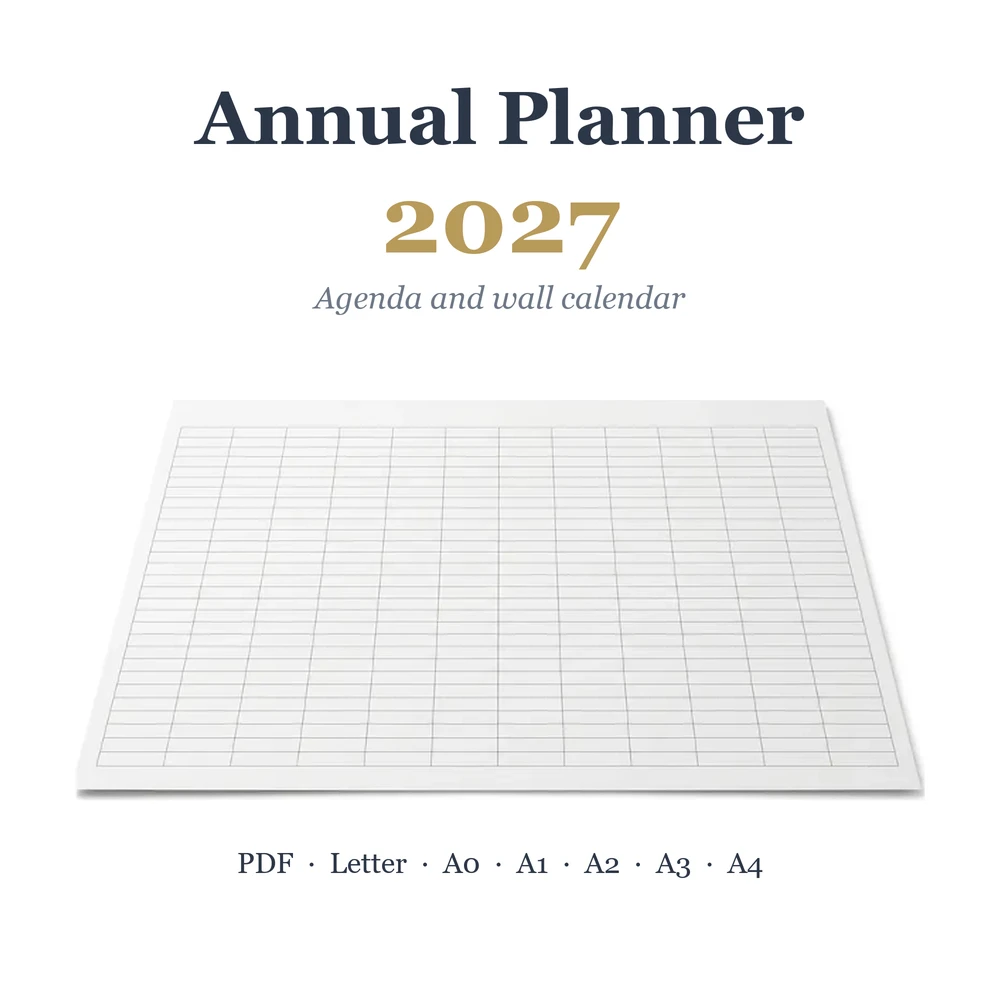
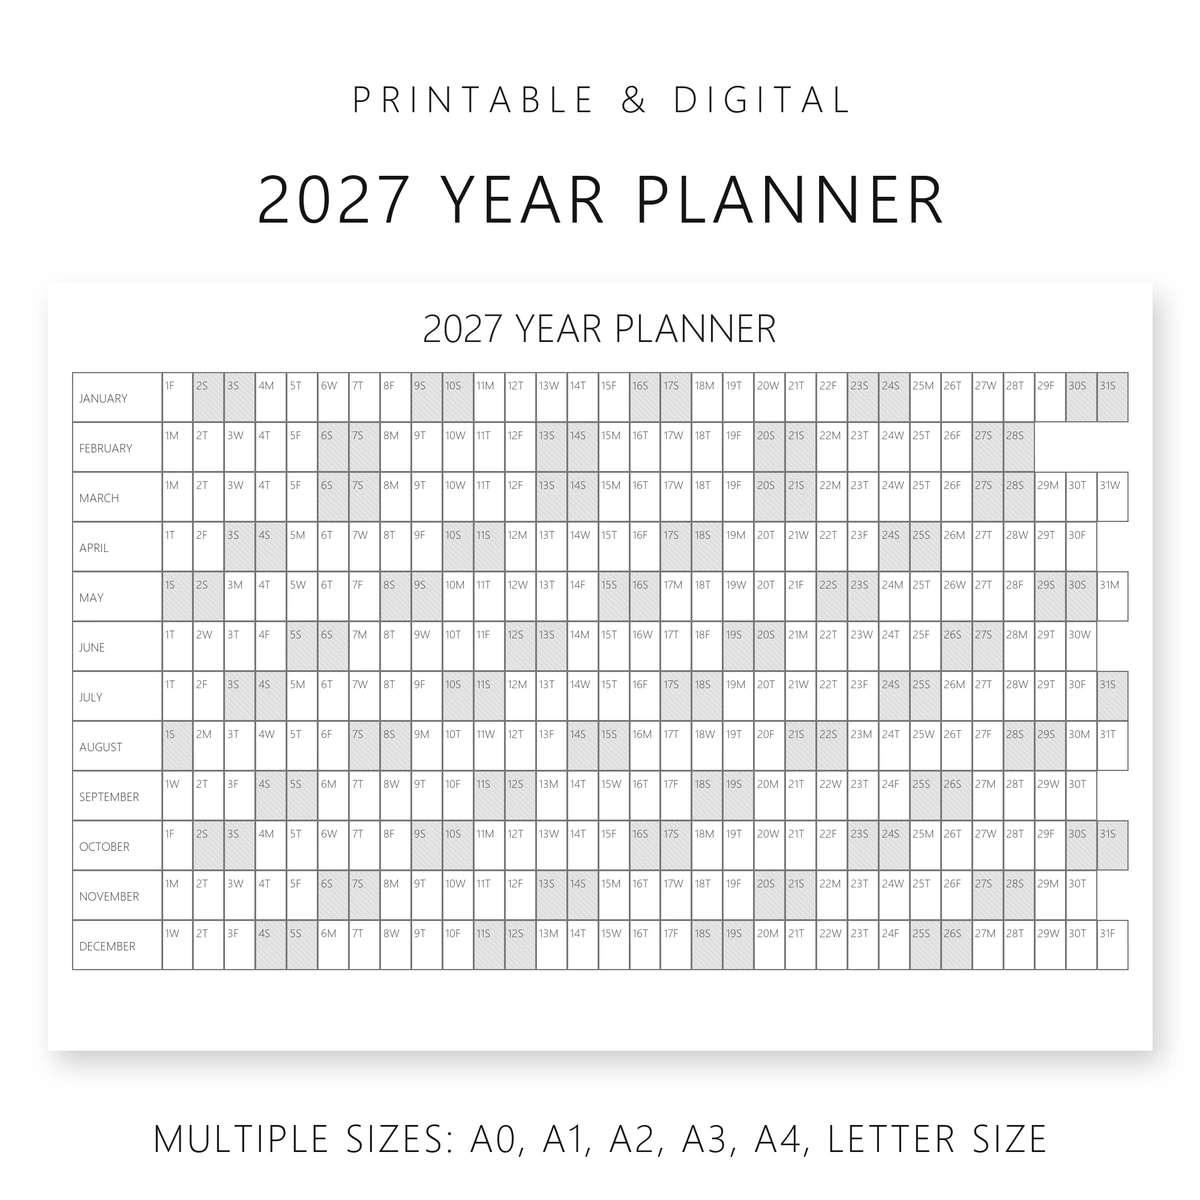
Foto planner-annuale-2027-stampabile: originale Etsy, sfondo bianco e testi tradotti IT/EN

diff --git a/automation/foto_digitale.py b/automation/foto_digitale.py
@@ -1,0 +1,101 @@
+# -*- coding: utf-8 -*-
+"""
+Foto prodotti DIGITALI fedeli all'annuncio: foto originale Etsy -> Gemini (sfondo bianco + traduzione dei testi, stesso prodotto) -> IT + EN.
+Uso: python automation/foto_digitale.py <id> [--solo it|en] [--no-push]
+Serve: automation/base/<id>-orig.jpg (foto originale dell'annuncio) e una voce in PRODOTTI qui sotto.
+Regola: il prodotto mostrato NON si ridisegna (stessa griglia, mesi, date, colonne): Gemini cambia solo sfondo e lingua dei testi.
+Altro prodotto = aggiungere una voce in PRODOTTI (cosa e' il prodotto + testi da tradurre). Altra lingua = voce in LINGUE.
+"""
+import json, os, subprocess, sys
+sys.path.insert(0, r'C:\Users\mirco\Desktop\libreria_comune')
+from comune import gemini_foto as G
+from PIL import Image, ImageChops
+
+R = os.path.dirname(os.path.dirname(os.path.abspath(__file__)))
+LINGUE = {'it': ('Italian', ''), 'en': ('English', '-en')}
+PRODOTTI = {
+ 'planner-annuale-2027-stampabile': dict(
+  cosa='a printable 2027 year planner / wall calendar sheet (12 month rows x 31 day columns, each cell with day number and weekday initial, weekend cells shaded)',
+  it='Translate every text into Italian exactly like this: "PRINTABLE & DIGITAL" -> "STAMPABILE E DIGITALE"; "2027 YEAR PLANNER" (both the headline and the title on the sheet) -> "PLANNER ANNUALE 2027"; '
+     'month names JANUARY..DECEMBER -> GENNAIO, FEBBRAIO, MARZO, APRILE, MAGGIO, GIUGNO, LUGLIO, AGOSTO, SETTEMBRE, OTTOBRE, NOVEMBRE, DICEMBRE; '
+     'weekday initials (M T W T F S S) -> Italian initials (L M M G V S D) keeping each day number on the SAME weekday as in the original; '
+     '"MULTIPLE SIZES: A0, A1, A2, A3, A4, LETTER SIZE" -> "PIU FORMATI: A0, A1, A2, A3, A4, LETTER".',
+  en='Keep all text in English exactly as in the original.',
+  render=True,
+  testi=dict(
+   it=dict(top='STAMPABILE E DIGITALE', titolo='PLANNER ANNUALE 2027', formati='PIU FORMATI: A0, A1, A2, A3, A4, LETTER',
+           mesi=['GENNAIO','FEBBRAIO','MARZO','APRILE','MAGGIO','GIUGNO','LUGLIO','AGOSTO','SETTEMBRE','OTTOBRE','NOVEMBRE','DICEMBRE'], gg='LMMGVSD'),
+   en=dict(top='PRINTABLE & DIGITAL', titolo='2027 YEAR PLANNER', formati='MULTIPLE SIZES: A0, A1, A2, A3, A4, LETTER SIZE',
+           mesi=['JANUARY','FEBRUARY','MARCH','APRIL','MAY','JUNE','JULY','AUGUST','SEPTEMBER','OCTOBER','NOVEMBER','DECEMBER'], gg='MTWTFSS'))
+ )
+}
+
+def prompt(p, lingua):
+    return ('Edit this product listing photo. KEEP THE PRODUCT EXACTLY AS IT IS: ' + p['cosa'] + '. Same layout, same number of rows and columns, '
+     'same months, same dates, same cells, same shading, same fonts and colours. Do NOT redraw, simplify, shorten, remove or invent any part of it. '
+     'Only two changes: (1) replace the textured cream background with a plain pure white #FFFFFF background (keep the soft shadow under the sheet); '
+     '(2) ' + p[lingua] + ' Keep the headline lines and the sizes line with the same style and positions. '
+     'Square 1:1 image, everything centred with comfortable white margins. No extra objects, no watermark, no logo.')
+
+def finale(src, dest):
+    im = Image.open(src).convert('RGB')
+    bb = ImageChops.difference(im, Image.new('RGB', im.size, (255, 255, 255))).convert('L').point(lambda v: 255 if v > 10 else 0).getbbox()
+    im = im.crop(bb); k = 900 / max(im.size); im = im.resize((int(im.width * k), int(im.height * k)), Image.LANCZOS)
+    c = Image.new('RGB', (1000, 1000), (255, 255, 255)); c.paste(im, ((1000 - im.width) // 2, (1000 - im.height) // 2)); c.save(dest, 'WEBP', quality=90)
+
+def render_planner(p, l, anno=2027):
+    """Planner annuale ricostruito 1:1 come l'originale (12 mesi x 31 giorni, 'giorno + iniziale', weekend ombreggiati) con date vere e testi nella lingua."""
+    import calendar, datetime
+    from PIL import ImageDraw, ImageFont, ImageFilter
+    t = p['testi'][l]; W = 2000; FD = r'C:\Windows\Fonts'
+    F = lambda n, s: ImageFont.truetype(os.path.join(FD, n), s)
+    im = Image.new('RGB', (W, W), (255, 255, 255)); d = ImageDraw.Draw(im)
+    def sp(y, s, f, fill=(20, 20, 20), gap=0):  # testo centrato con spaziatura tra lettere
+        w = sum(d.textlength(c, font=f) + gap for c in s) - gap; x = (W - w) / 2
+        for c in s: d.text((x, y), c, font=f, fill=fill); x += d.textlength(c, font=f) + gap
+    sp(120, t['top'], F('segoeuil.ttf', 62), gap=14); sp(250, t['titolo'], F('segoeuisl.ttf', 112), gap=8)
+    sx, sy, sw, sh = 80, 470, 1840, 1280
+    ombra = Image.new('L', (W, W), 0); ImageDraw.Draw(ombra).rectangle([sx + 14, sy + 22, sx + sw + 14, sy + sh + 22], fill=120)
+    ombra = ombra.filter(ImageFilter.GaussianBlur(22)); im.paste(Image.new('RGB', (W, W), (150, 150, 150)), mask=ombra)
+    d = ImageDraw.Draw(im); d.rectangle([sx, sy, sx + sw, sy + sh], fill=(255, 255, 255))
+    ft = F('segoeuil.ttf', 66); w = d.textlength(t['titolo'], font=ft)
+    d.text((sx + (sw - w) / 2, sy + 28), t['titolo'], font=ft, fill=(30, 30, 30))
+    gx, gy, lab, ch = sx + 40, sy + 150, 150, 83; cw = (sw - 80 - lab) / 31
+    fc, fm = F('segoeuil.ttf', 19), F('segoeuil.ttf', 20); GR = (120, 120, 120)
+    for m in range(12):
+        y = gy + m * ch; d.rectangle([gx, y, gx + lab, y + ch], outline=GR, width=2)
+        d.text((gx + 12, y + ch / 2 - 12), t['mesi'][m], font=fm, fill=(60, 60, 60))
+        for g in range(1, calendar.monthrange(anno, m + 1)[1] + 1):
+            x = gx + lab + (g - 1) * cw; wd = datetime.date(anno, m + 1, g).weekday()
+            if wd >= 5:
+                d.rectangle([x, y, x + cw, y + ch], fill=(228, 228, 228))
+                for k in range(-int(ch), int(cw), 9): d.line([x + max(k, 0), y + max(-k, 0), x + min(k + ch, cw), y + min(ch, cw - k)], fill=(205, 205, 205), width=1)
+            d.rectangle([x, y, x + cw, y + ch], outline=GR, width=2)
+            d.text((x + 5, y + 8), str(g) + t['gg'][wd], font=fc, fill=(70, 70, 70))
+    sp(1850, t['formati'], F('segoeuil.ttf', 64), gap=4)
+    return im.resize((1200, 1200), Image.LANCZOS)
+
+def main(pid, solo=None, push=True):
+    p = PRODOTTI[pid]; orig = os.path.join(R, 'automation', 'base', pid + '-orig.jpg'); out = os.path.join(R, 'assets', 'images', 'prodotti')
+    for l, (nome, suf) in LINGUE.items():
+        if solo and l != solo: continue
+        if p.get('render'):
+            render_planner(p, l).save(os.path.join(out, pid + suf + '.webp'), 'WEBP', quality=92); print('ok render', l); continue
+        G.PROMPT['digitale'] = prompt(p, l); G.SUFFISSO['digitale'] = '_digitale'
+        png = os.path.join(R, 'automation', 'base', pid + '-' + l + '.png')
+        r = G.modifica(orig, 'digitale', out=png, forza=True)
+        if not r: print('Gemini KO', l); return
+        finale(r, os.path.join(out, pid + suf + '.webp')); print('ok', l)
+    cp = os.path.join(R, '_data', 'catalogo.json'); raw = open(cp, encoding='utf-8').read(); c = json.loads(raw)
+    x = [q for q in c['prodotti'] if q['id'] == pid][0]
+    v = int(x.get('immagine', '?v=0').split('?v=')[-1] or 0) + 1
+    x['immagine'] = 'assets/images/prodotti/%s.webp?v=%d' % (pid, v)
+    x.setdefault('tr', {}).setdefault('en', {})['immagine'] = 'assets/images/prodotti/%s-en.webp?v=%d' % (pid, v)
+    open(cp, 'w', encoding='utf-8', newline='\n').write(json.dumps(c, ensure_ascii=False, indent=2) + ('\n' if raw.endswith('\n') else ''))
+    if push:
+        g = lambda *a: print(subprocess.run(['git', '-C', R, *a], capture_output=True, text=True, encoding='utf-8').stdout.strip())
+        g('add', '_data/catalogo.json', 'assets/images/prodotti', 'automation'); g('commit', '-m', 'Foto %s: originale Etsy, sfondo bianco e testi tradotti IT/EN' % pid)
+        g('pull', '--rebase'); g('push'); print('push ok')
+
+if __name__ == '__main__':
+    a = sys.argv[1:]; main(a[0], a[a.index('--solo') + 1] if '--solo' in a else None, '--no-push' not in a)
